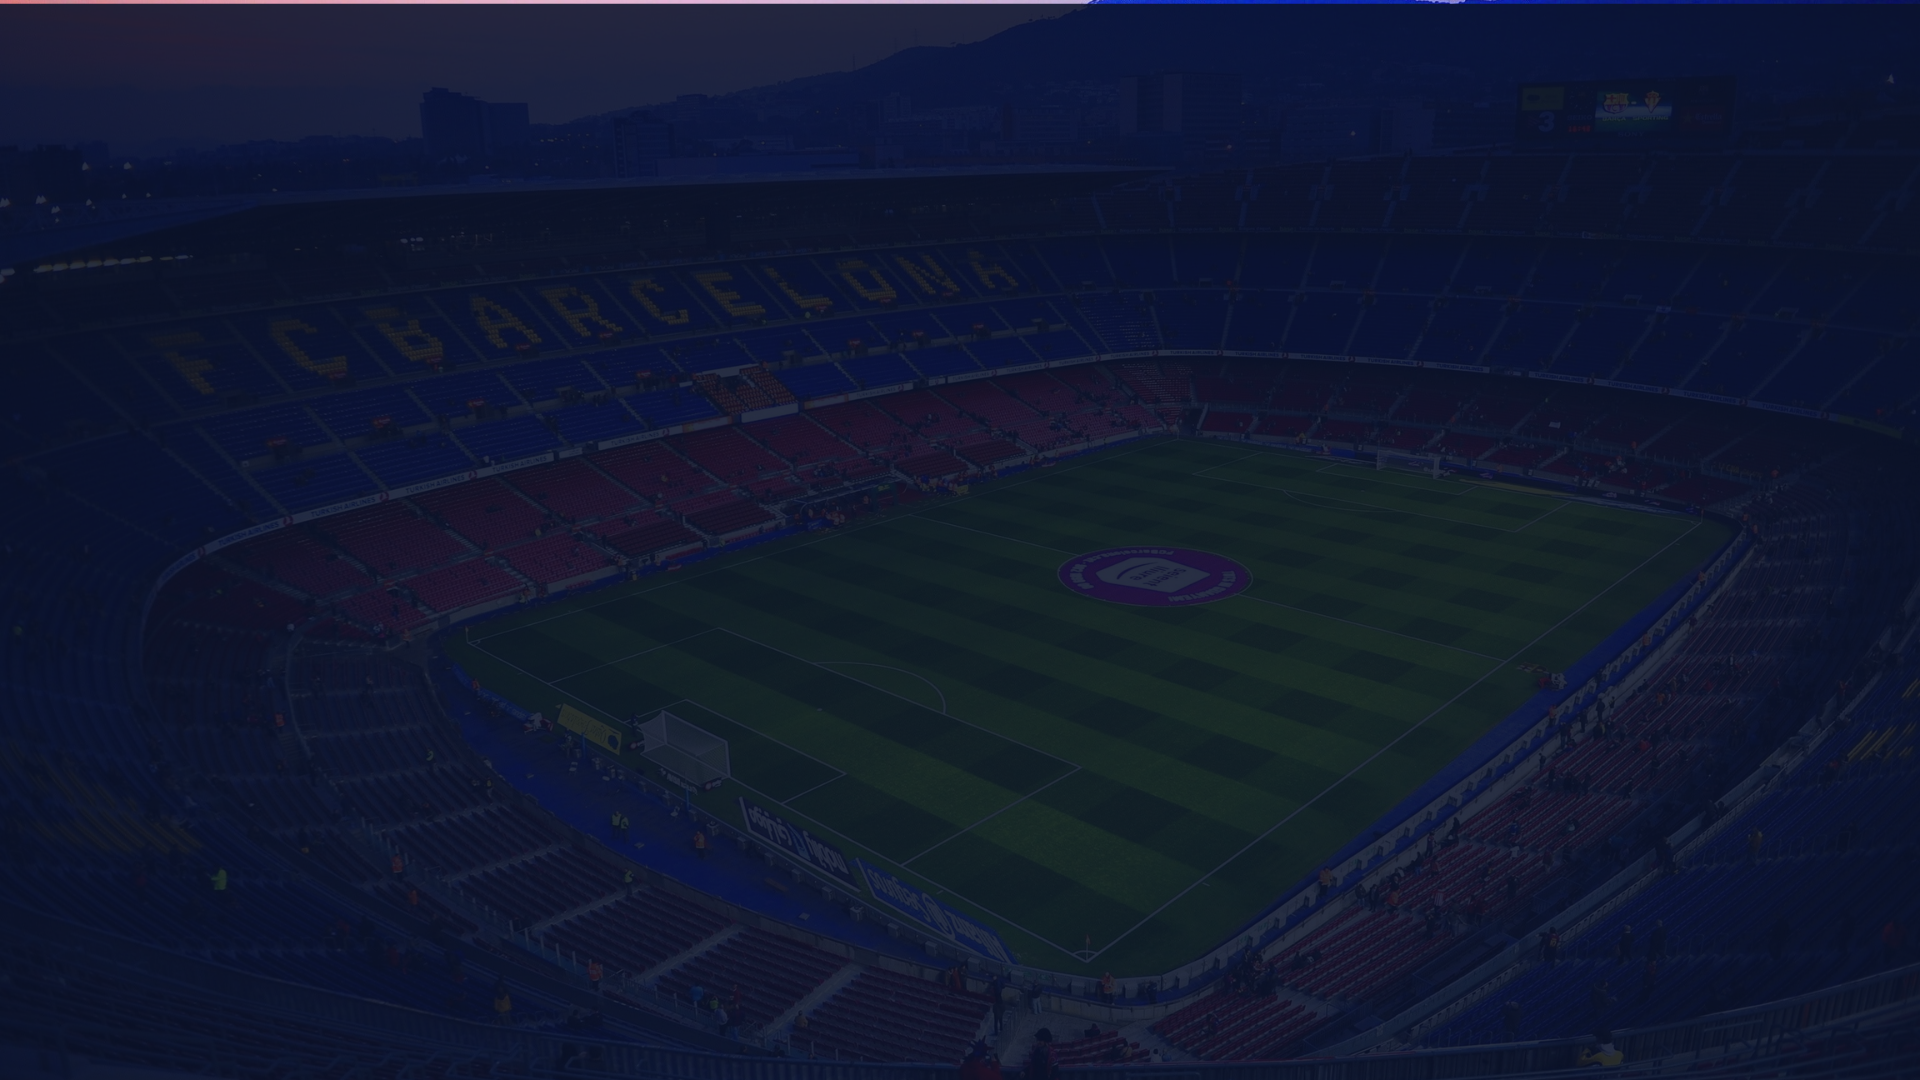
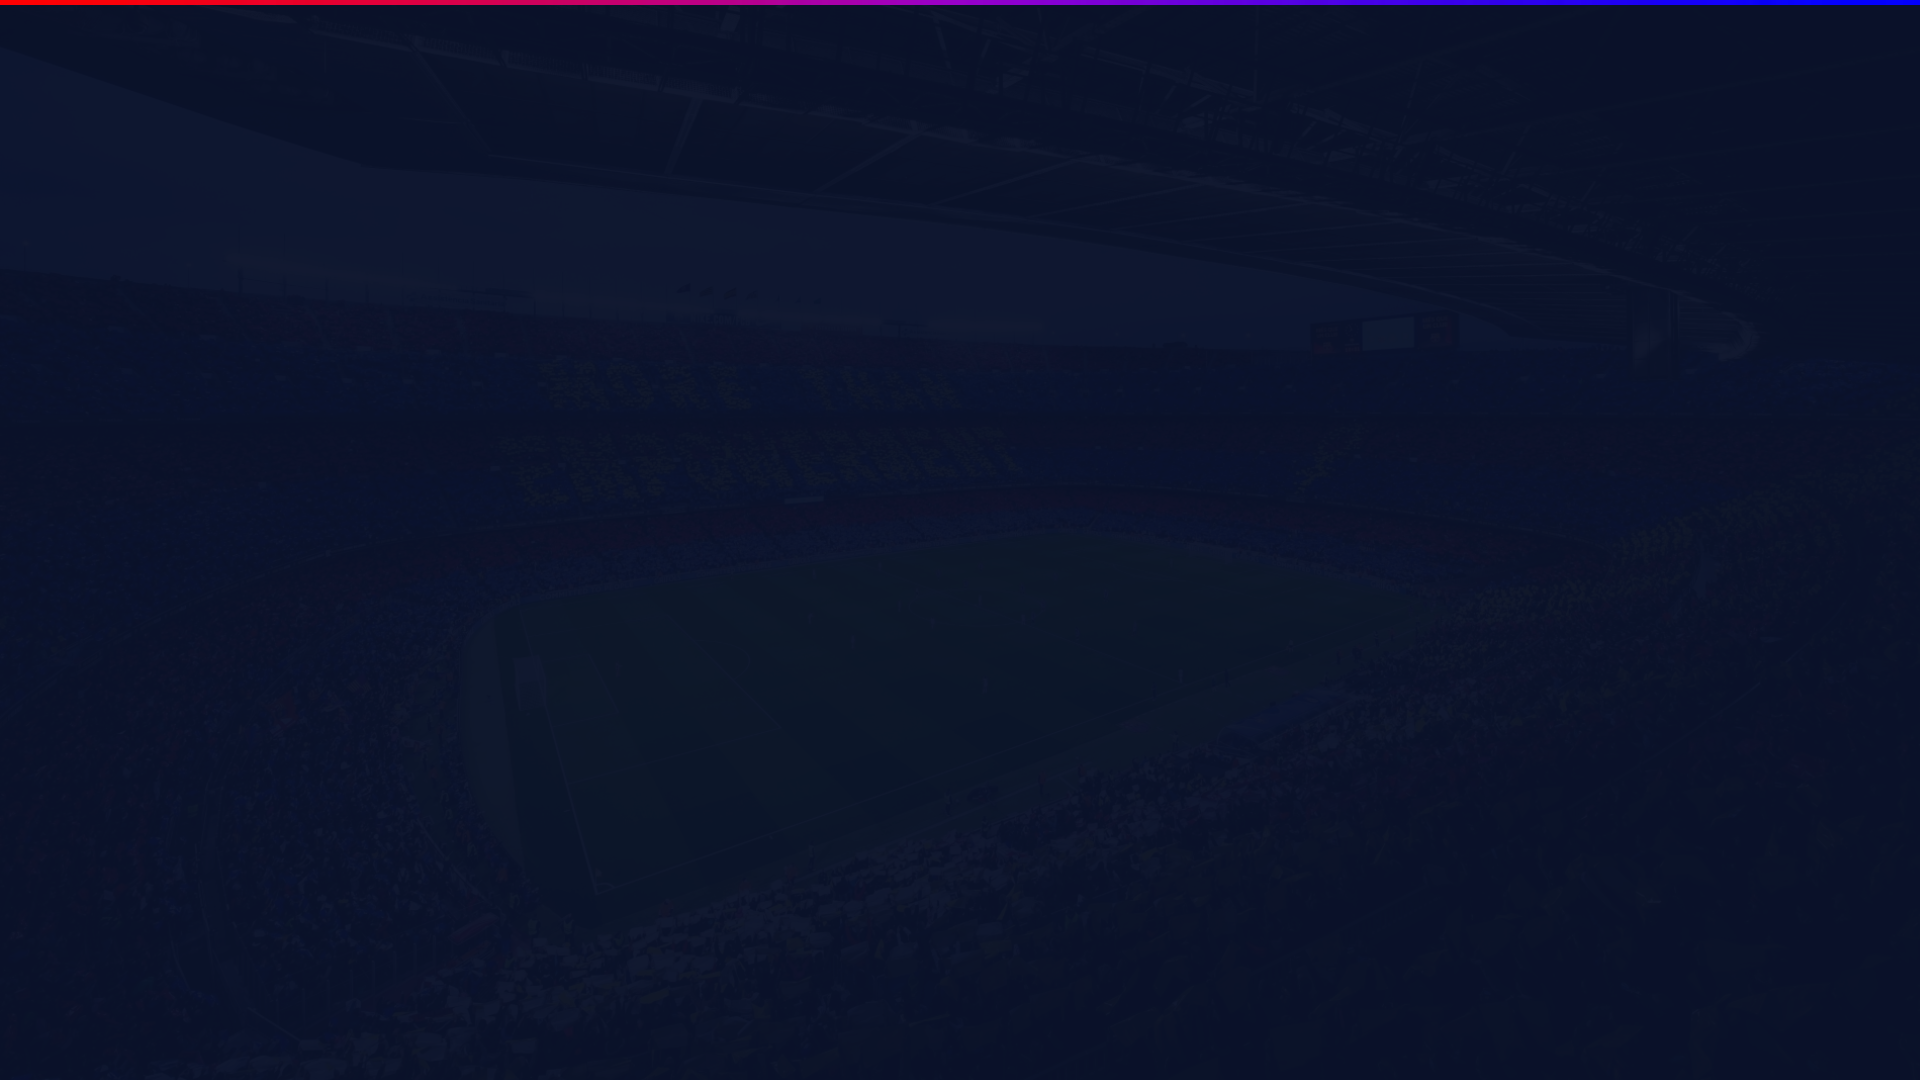
fix 👍

diff --git a/views/css/index.css b/views/css/index.css
@@ -25,22 +25,19 @@ body {
     justify-content: space-between;
 }
 
-.text-section {
-    max-width: 400px;
-}
-
 h1 {
     font-size: 3rem;
-    font-weight: 700;
+    font-weight: 600;
     color: #FFC107;
-    /* Goud */
-    margin-bottom: 1rem;
+    max-width: 500px;
+
 }
 
 p {
     font-size: 1.2rem;
     line-height: 1.6;
     color: #FFFFFF;
+    max-width: 400px;
 }
 
 .barcalogo {
@@ -59,13 +56,13 @@ p {
 
 .player {
     position: relative;
-    left: -55px;
+    left: -155px;
     z-index: 1;
 }
 
 .player img {
-    height: 700px;
-    width: 600px;
+    height: 500px;
+    width: 400px;
 }
 
 /* Login-knop rechtsboven */
@@ -98,3 +95,26 @@ p {
     font-size: 20px;
     margin-right: 0px;
 }
+
+
+.user-info {
+    display: flex;
+    align-items: center;
+    gap: 10px;
+}
+
+.profile-pic {
+    width: 40px;
+    height: 40px;
+    border-radius: 50%;
+    object-fit: cover;
+    border: 2px solid #E50914;
+}
+
+.username {
+    font-size: 16px;
+    font-weight: 600;
+    color: #E50914;
+    cursor: pointer;
+}
+

diff --git a/views/css/dashboard.css b/views/css/dashboard.css
@@ -10,7 +10,8 @@
 body {
   margin: 0;
   padding: 0;
-  background: #2c2c2e; /* Donkerblauw */
+  background-image: url("../../afbeeldingen/achter.png");
+
   height: 100vh;
   display: flex;
   justify-content: center;
@@ -81,21 +82,26 @@ body {
 
 .home-button {
   position: absolute;
-  top: 10px;
-  left: 10px;
-  font-size: 24px;
-  color: #333;
+  top: 20px;
+  right: 20px;
+  display: flex;
+  align-items: center;
+  background: #E50914;
+  /* Bordeauxrood */
+  color: #FFFFFF;
+  /* Wit */
+  font-size: 16px;
+  font-weight: 600;
+  padding: 10px 20px;
+  border-radius: 20%;
+  border: none;
+  cursor: pointer;
+  transition: background 0.3s ease;
   text-decoration: none;
-  background-color: #f0f0f0;
-  padding: 10px;
-  border-radius: 50%;
-  box-shadow: 0 2px 5px rgba(0, 0, 0, 0.2);
-  transition: background-color 0.3s ease, color 0.3s ease;
 }
 
 .home-button:hover {
-  background-color: #333;
-  color: #fff;
+  background: #BF0812;
 }
 
 @media (max-width: 600px) {

diff --git a/views/css/style.css b/views/css/style.css
@@ -10,8 +10,7 @@
 body {
   margin: 0;
   padding: 0;
-  background: #0A122A; /* Donkerblauw */
-  height: 100vh;
+  background-image: url("../../afbeeldingen/achter.png");  height: 100vh;
   overflow: hidden;
 }
 .box {

diff --git a/views/css/styles.css b/views/css/styles.css
@@ -10,7 +10,7 @@
 body {
   margin: 0;
   padding: 0;
-  background: #0A122A; /* Donkerblauw */
+  background-image: url("../../afbeeldingen/achter.png");
   height: 100vh;
   overflow: hidden;
 }

diff --git a/views/index.php b/views/index.php
@@ -1,3 +1,15 @@
+<?php
+session_start();
+
+// Controleer of de gebruiker is ingelogd
+if (isset($_SESSION['user'])) {
+    $user = $_SESSION['user']; // Haal de gebruikersinformatie op
+    // Placeholder profielfoto als er geen echte is
+    $profilePicture = $user['profielfoto'] ?? 'default-profile.png'; // Zorg dat 'default-profile.png' bestaat
+} else {
+    $user = null; // Geen gebruiker ingelogd
+}
+?>
 <!DOCTYPE html>
 <html lang="en">
 <head>
@@ -7,12 +19,23 @@
     <link rel="stylesheet" href="css/index.css">
     <script src="https://kit.fontawesome.com/a076d05399.js" crossorigin="anonymous"></script>
     <link rel="stylesheet" href="https://cdnjs.cloudflare.com/ajax/libs/font-awesome/6.0.0-beta3/css/all.min.css">
-
 </head>
-<body> 
-<a href="login.php" class="login-btn">
-<i class="fa-solid fa-user"></i>
-</a>
+<body>
+    <div class="header">
+        <?php if ($user): ?>
+            <!-- Profielfoto en gebruikersnaam -->
+            <div class="user-info">
+                <img src="uploads/<?php echo htmlspecialchars($profilePicture); ?>" alt="Profielfoto" class="profile-pic">
+             
+                <a href="dashboard.php" style="text-decorations:none; color: #E50914;></   <span class="username">@<?php echo htmlspecialchars($user['gebruikersnaam']); ?></span> 
+                </a>    </div>
+        <?php else: ?>
+            <!-- Login-knop -->
+            <a href="login.php" class="login-btn">
+                <i class="fa-solid fa-user"></i>
+            </a>
+        <?php endif; ?>
+    </div>
 
     <div class="container">
         <div class="text-section">
